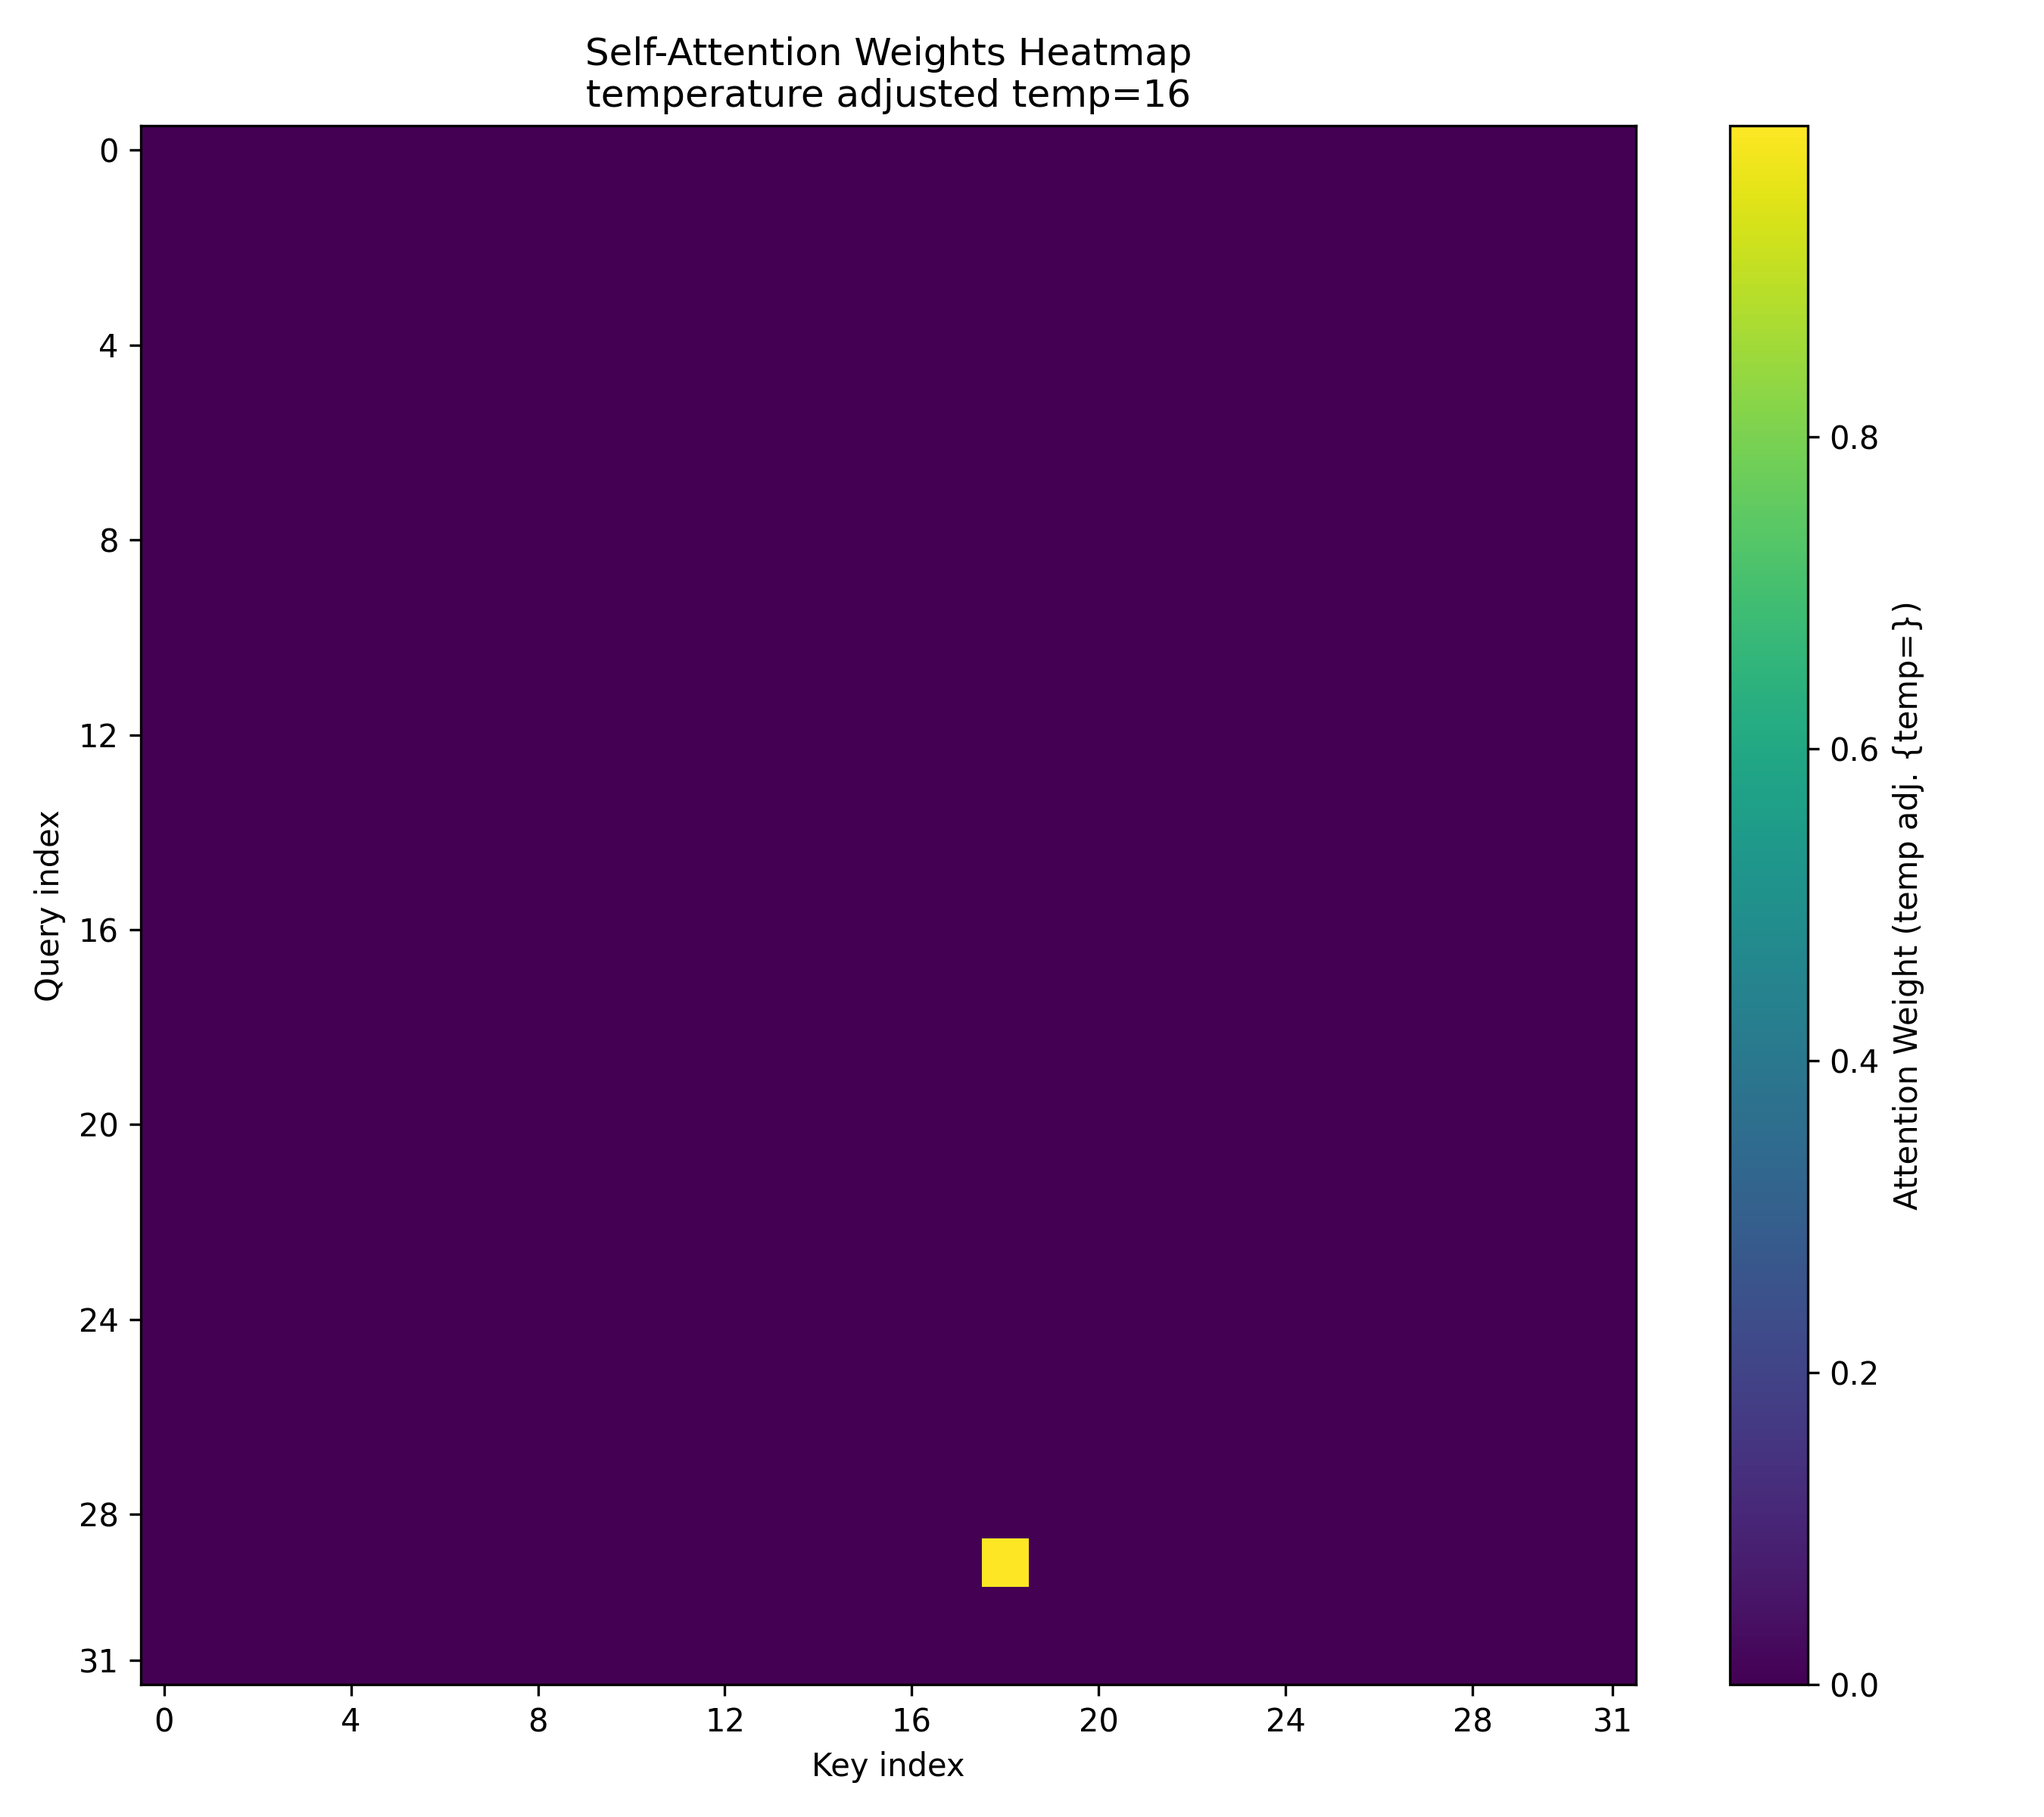
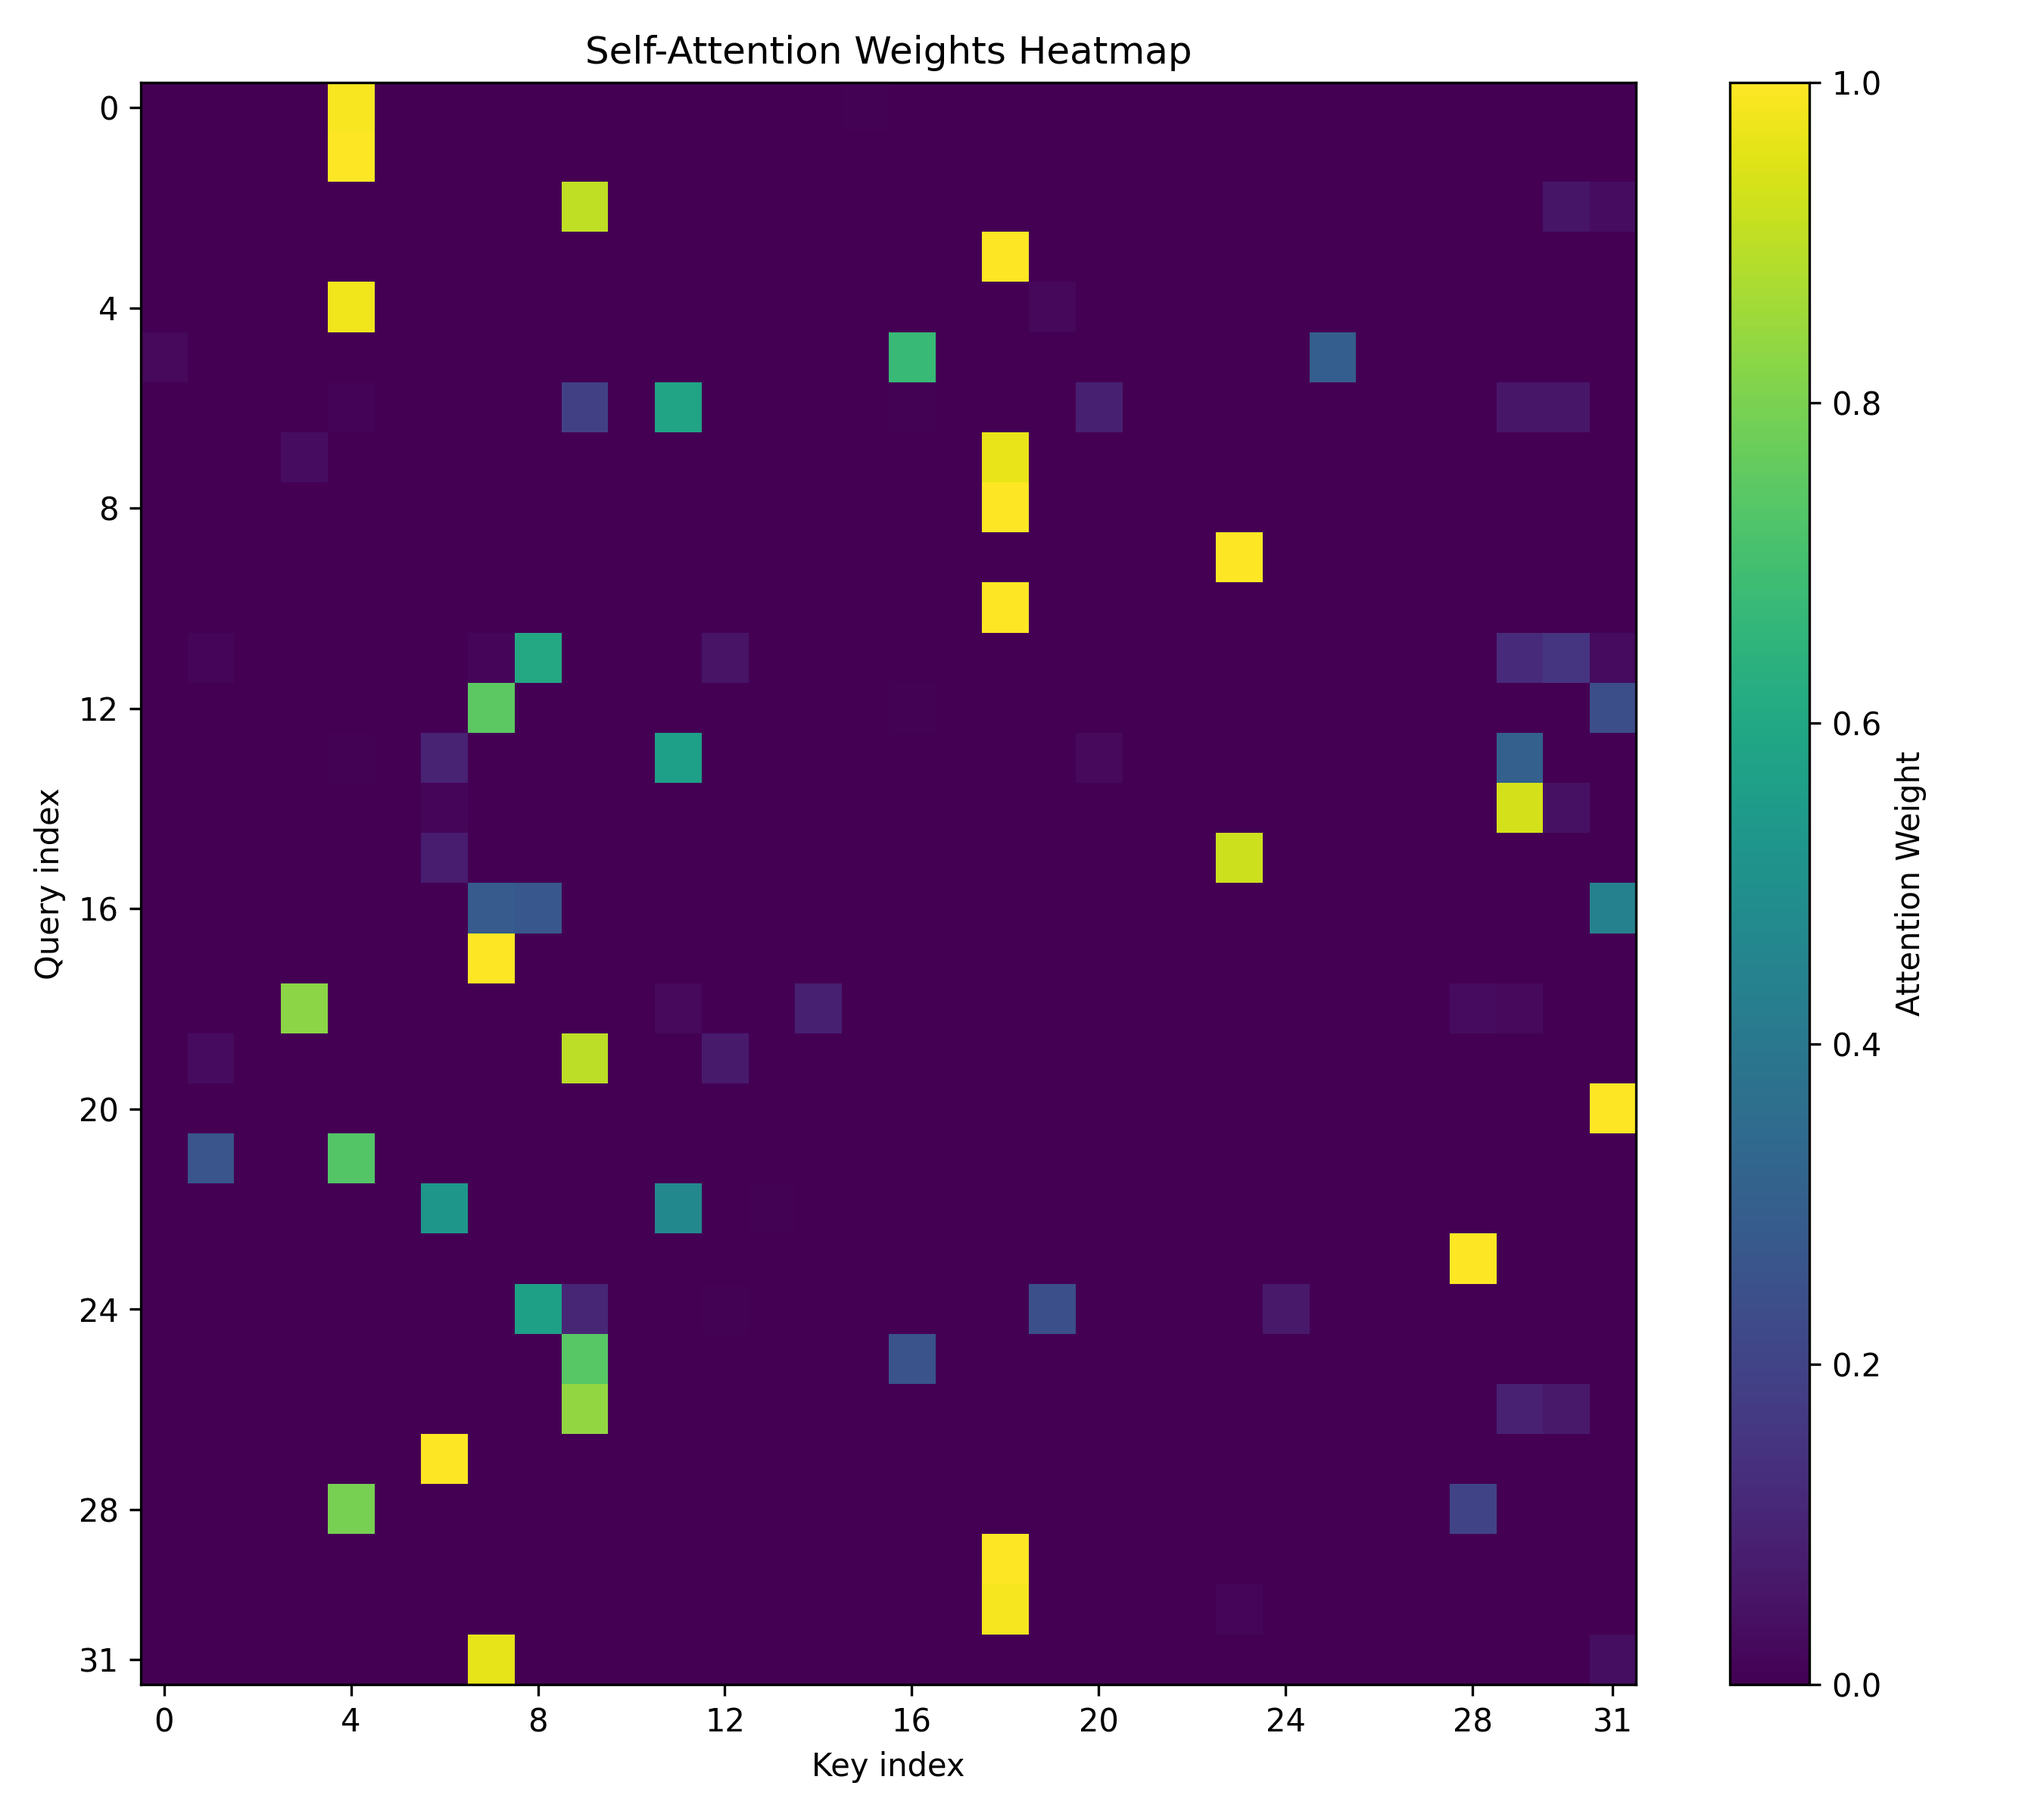
Fixed softmax bug, improved the code

diff --git a/examples/example_transformer.py b/examples/example_transformer.py
@@ -1,40 +1,72 @@
 import numpy as np
 import matplotlib.pyplot as plt
+import numpy.typing
+from typing import TypeVar
 
 _rng = np.random.default_rng(0x2025_07_13)
 
+# pylint:disable=invalid-name
 
-def softmax(x: np.ndarray) -> np.ndarray:
-    es = np.exp(x - np.max(x))
-    return es / es.sum()
+
+T = TypeVar("T", bound=np.floating)
+NDArrayT = numpy.typing.NDArray[T]
+
+
+def softmax(x: NDArrayT[np.floating]) -> NDArrayT[np.floating]:
+    """Computes softmax, applies the usual numerical stability trick."""
+    es = np.exp(x - np.max(x, axis=-1, keepdims=True))
+    return es / np.sum(es, axis=-1, keepdims=True)
+
+
+def plot_attention_weights(
+    weights: NDArrayT[np.floating], title: str, filename: str
+) -> None:
+    """Plotting Helper"""
+    seq_len = weights.shape[0]
+
+    plt.figure(figsize=(9, 8))  # type: ignore
+    plt.imshow(weights, cmap="viridis", aspect="auto")  # type: ignore
+    plt.colorbar(label="Attention Weight")  # type: ignore
+    plt.title(f"{title}")  # type: ignore
+    plt.xlabel("Key index")  # type: ignore
+    plt.ylabel("Query index")  # type: ignore
+    ticks = np.arange(0, seq_len, 4)  # type: ignore
+    if (seq_len - 1) not in ticks:  # type: ignore
+        ticks = np.append(ticks, seq_len - 1)  # type: ignore
+    plt.xticks(ticks)  # type: ignore
+    plt.yticks(ticks)  # type: ignore
+    plt.tight_layout()  # type: ignore
+    plt.savefig(filename, dpi=300)  # type: ignore
+    plt.show()  # type: ignore
 
 
 def example_transformer() -> None:
+    """
+    Does a single single head self-attention step on random data.
+    """
     d_in = 16
     d_out = 8
     d_q = d_out
-    N = 32
-    temp = 16
+    seq_len = 32
+    temperature = 16
 
-    X = _rng.normal(loc=0.0, scale=1.0, size=(N, d_in)).astype(np.float32)
-    W_k = _rng.normal(loc=0.0, scale=1.0, size=(d_in, d_out)).astype(np.float32)
-    W_v = _rng.normal(loc=0.0, scale=1.0, size=(d_in, d_out)).astype(np.float32)
-    W_q = _rng.normal(loc=0.0, scale=1.0, size=(d_in, d_out)).astype(np.float32)
+    X = _rng.normal(loc=0.0, scale=1.0, size=(seq_len, d_in)).astype(np.float32)
+    W_K = _rng.normal(loc=0.0, scale=1.0, size=(d_in, d_out)).astype(np.float32)
+    W_V = _rng.normal(loc=0.0, scale=1.0, size=(d_in, d_out)).astype(np.float32)
+    W_Q = _rng.normal(loc=0.0, scale=1.0, size=(d_in, d_out)).astype(np.float32)
 
-    query = np.matmul(X, W_q)
-    print(f"query = np.matmul(X, W_q)")
-    print(f"{X.shape=},{W_q.shape=} -> {query.shape=}")
-    print()
-    keys = np.matmul(X, W_k)
-    print(f"keys = np.matmul(X, W_k)")
-    print(f"{X.shape=},{W_k.shape=} -> {keys.shape=}")
-    print()
-    values = np.matmul(X, W_v)
-    print(f"values = np.matmul(X, W_v)")
-    print(f"{X.shape=},{W_v.shape=} -> {values.shape=}")
+    query = np.matmul(X, W_Q)
+    print("query = np.matmul(X, W_q)")
+    print(f"{X.shape=},{W_Q.shape=} -> {query.shape=}")
+    keys = np.matmul(X, W_K)
+    print("keys = np.matmul(X, W_k)")
+    print(f"{X.shape=},{W_K.shape=} -> {keys.shape=}")
+    values = np.matmul(X, W_V)
+    print("values = np.matmul(X, W_v)")
+    print(f"{X.shape=},{W_V.shape=} -> {values.shape=}")
     print()
     similarities_noscale = np.matmul(query, keys.T)
-    print(f"similarities (no scale) = np.matmul(query, keys.T)")
+    print("similarities (no scale) = np.matmul(query, keys.T)")
     print(f"{query.shape=},{keys.T.shape=} -> {similarities_noscale.shape=}")
     print(f"{similarities_noscale[:3, :3]} = {similarities_noscale[:3, :3]}")
     print()
@@ -49,23 +81,30 @@ def example_transformer() -> None:
     print(f"similarities_noscale[2, 1]={float(similarities_noscale[2, 1]):.4f}")
     print()
     similarities_masked = similarities.copy()
-    for col in range(N):
-        for row in range(col + 1, N):
-            similarities_masked[row, col] = -np.inf
+    # https://numpy.org/doc/2.2/reference/generated/numpy.tril_indices.html
+    # Could also use https://numpy.org/doc/2.2/reference/generated/numpy.mask_indices.html#numpy.mask_indices
+    rows, cols = np.tril_indices(seq_len, k=-1)
+    similarities_masked[rows, cols] = -np.inf
 
     attention_weights = softmax(similarities)
     print(f"attention_weights[:3,:3]=\n{attention_weights[:3,:3]}")
     print(
-        f"{np.max(attention_weights)=:.4f},{np.min(attention_weights)=:.4f},{np.sum(attention_weights)=:.4f}"
+        f"{np.max(attention_weights)=:.4f},"
+        f"{np.min(attention_weights)=:.4f},"
+        f"{np.sum(attention_weights)=:.4f}"
     )
-    attention_weights_temp = softmax(similarities / temp)
-    print(f"Due to low dim this is still too spiky, dividing by {temp} before softmax")
+    attention_weights_temp = softmax(similarities / temperature)
+    print(
+        f"Due to low dim this is still too spiky, dividing by {temperature} before softmax"
+    )
     print(f"attention_weights_temp[:3,:3]=\n{attention_weights_temp[:3,:3]}")
     print(
-        f"{np.max(attention_weights_temp)=:.4f},{np.min(attention_weights_temp)=:.4f},{np.sum(attention_weights_temp)=:.4f}"
+        f"{np.max(attention_weights_temp)=:.4f},"
+        f"{np.min(attention_weights_temp)=:.4f},"
+        f"{np.sum(attention_weights_temp)=:.4f}"
     )
 
-    attention_weights_temp_masked = softmax(similarities_masked / temp)
+    attention_weights_temp_masked = softmax(similarities_masked / temperature)
     print(
         f"attention_weights_temp_masked[:3,:3]=\n{attention_weights_temp_masked[:3,:3]}"
     )
@@ -73,53 +112,23 @@ def example_transformer() -> None:
         f"{np.max(attention_weights_temp_masked)=:.4f},{np.min(attention_weights_temp_masked)=:.4f},{np.sum(attention_weights_temp_masked)=:.4f}"
     )
 
-    plt.figure(figsize=(9, 8))
-    plt.imshow(attention_weights, cmap="viridis", aspect="auto")
-    plt.colorbar(label="Attention Weight (temp adj. {temp=})")
-    plt.title(f"Self-Attention Weights Heatmap\ntemperature adjusted {temp=}")
-    plt.xlabel("Key index")
-    plt.ylabel("Query index")
-    ticks = np.arange(0, N, 4)
-    if (N - 1) not in ticks:
-        ticks = np.append(ticks, N - 1)
+    plot_attention_weights(
+        weights=attention_weights,
+        title="Self-Attention Weights Heatmap",
+        filename="example_transformer_attention_weights.png",
+    )
 
-    plt.xticks(ticks)
-    plt.yticks(ticks)
-    plt.tight_layout()
-    plt.savefig("example_transformer_attention_weights.png", dpi=300)
-    plt.show()
+    plot_attention_weights(
+        weights=attention_weights_temp,
+        title="Self-Attention Weights Heatmap (Temp)",
+        filename="example_transformer_attention_weights_temp.png",
+    )
 
-    plt.figure(figsize=(9, 8))
-    plt.imshow(attention_weights_temp, cmap="viridis", aspect="auto")
-    plt.colorbar(label="Attention Weight (temp adj. {temp=})")
-    plt.title(f"Self-Attention Weights Heatmap\ntemperature adjusted {temp=}")
-    plt.xlabel("Key index")
-    plt.ylabel("Query index")
-    ticks = np.arange(0, N, 4)
-    if (N - 1) not in ticks:
-        ticks = np.append(ticks, N - 1)
-
-    plt.xticks(ticks)
-    plt.yticks(ticks)
-    plt.tight_layout()
-    plt.savefig("example_transformer_attention_weights_temp.png", dpi=300)
-    plt.show()
-
-    plt.figure(figsize=(9, 8))
-    plt.imshow(attention_weights_temp_masked, cmap="viridis", aspect="auto")
-    plt.colorbar(label="Attention Weight Masked (temp adj. {temp=})")
-    plt.title(f"Self-Attention Weights Heatmap Masked\ntemperature adjusted {temp=}")
-    plt.xlabel("Key index")
-    plt.ylabel("Query index")
-    ticks = np.arange(0, N, 4)
-    if (N - 1) not in ticks:
-        ticks = np.append(ticks, N - 1)
-
-    plt.xticks(ticks)
-    plt.yticks(ticks)
-    plt.tight_layout()
-    plt.savefig("example_transformer_attention_weights_temp_masked.png", dpi=300)
-    plt.show()
+    plot_attention_weights(
+        weights=attention_weights_temp_masked,
+        title="Self-Attention Weights Heatmap Masked (Temp)",
+        filename="example_transformer_attention_weights_temp_masked.png",
+    )
 
 
 if __name__ == "__main__":
